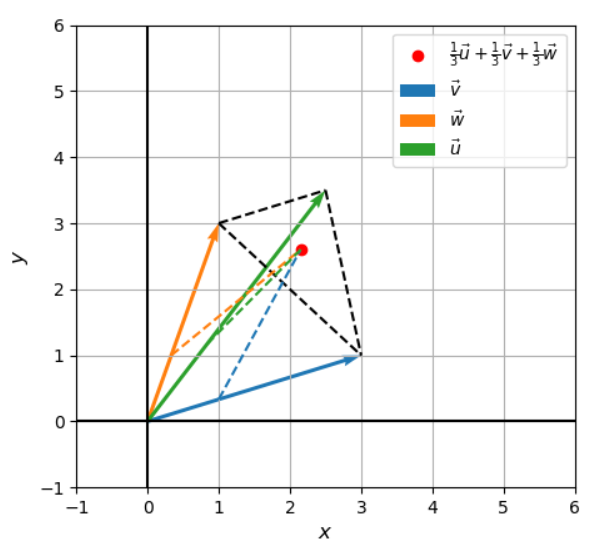
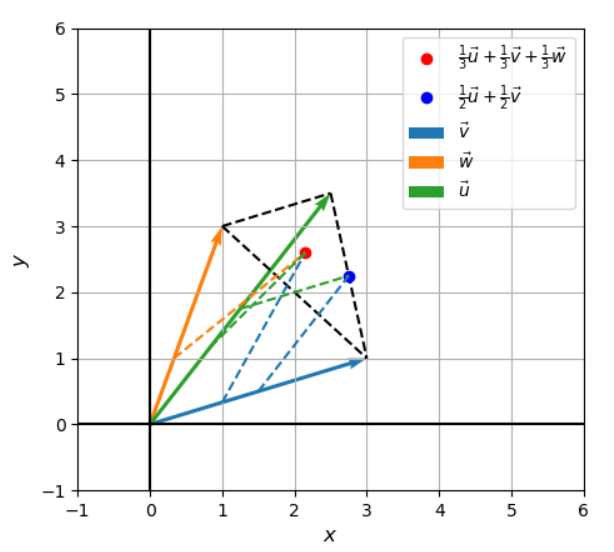
Chapter 1. Problem Set 1-1 #20

Changed region(s): [[0.0899, 0.031, 0.9584, 0.9617], [0.5092, 0.9617, 0.5691, 0.9927], [0.0, 0.4653, 0.0599, 0.4964]]

diff --git a/Math/Linear Algebra/code_snippets/ch1_1-1_20.py b/Math/Linear Algebra/code_snippets/ch1_1-1_20.py
@@ -26,10 +26,16 @@ plt.plot([1, 3], [3, 1], 'k--')
 # (1/3)u + (1/3)v + (1/3)w
 plt.plot(2.15, 2.6, 'ro', label=r'$\frac{1}{3}\vec{u} + \frac{1}{3}\vec{v} + \frac{1}{3}\vec{w}$')
 
+# (1/2)u + (1/2)v
+plt.plot(2.75, 2.25, 'bo', label=r'$\frac{1}{2}\vec{u} + \frac{1}{2}\vec{v}$')
+
 # Addition dotted lines.
 plt.plot([1, 2.15], [0.333, 2.6], 'C0--')
 plt.plot([0.333, 2.15], [1, 2.6], 'C1--')
 plt.plot([0.833, 2.15], [1.167, 2.6], 'C2--')
+
+plt.plot([1.5, 2.75], [0.5, 2.25], 'C0--')
+plt.plot([1.25, 2.75], [1.75, 2.25], 'C2--')
 
 # Miscellaneous.
 plt.xlim(-1, 6)
